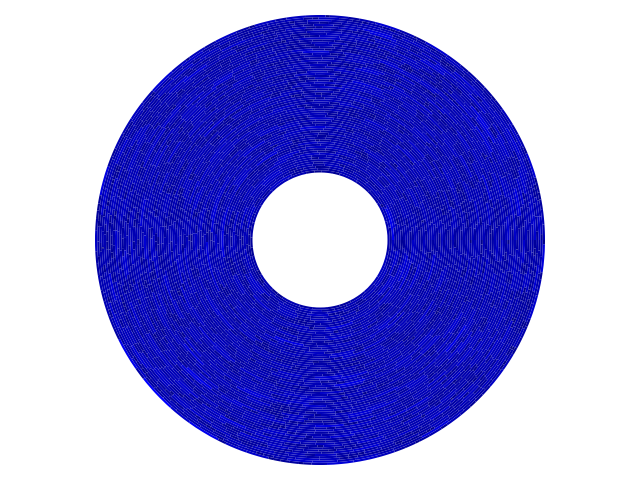
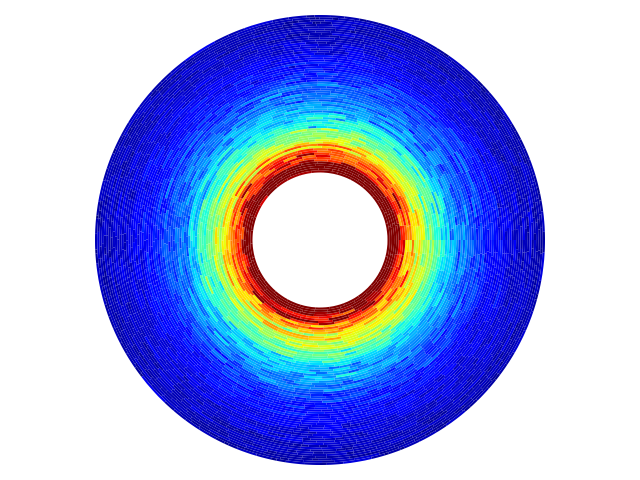
Update plot

diff --git a/example/simple_polarimage.py b/example/simple_polarimage.py
@@ -19,7 +19,7 @@ def main():
     def observation_func(state):
         return np.random.poisson(state)
 
-    dp = dps.DiskPropagation(r_in, r_out, 1.00)
+    dp = dps.DiskPropagation(r_in, r_out, 1.05)
     dp.initialize(initial_state_func)
     dp.run_simulation(num_step)
 
